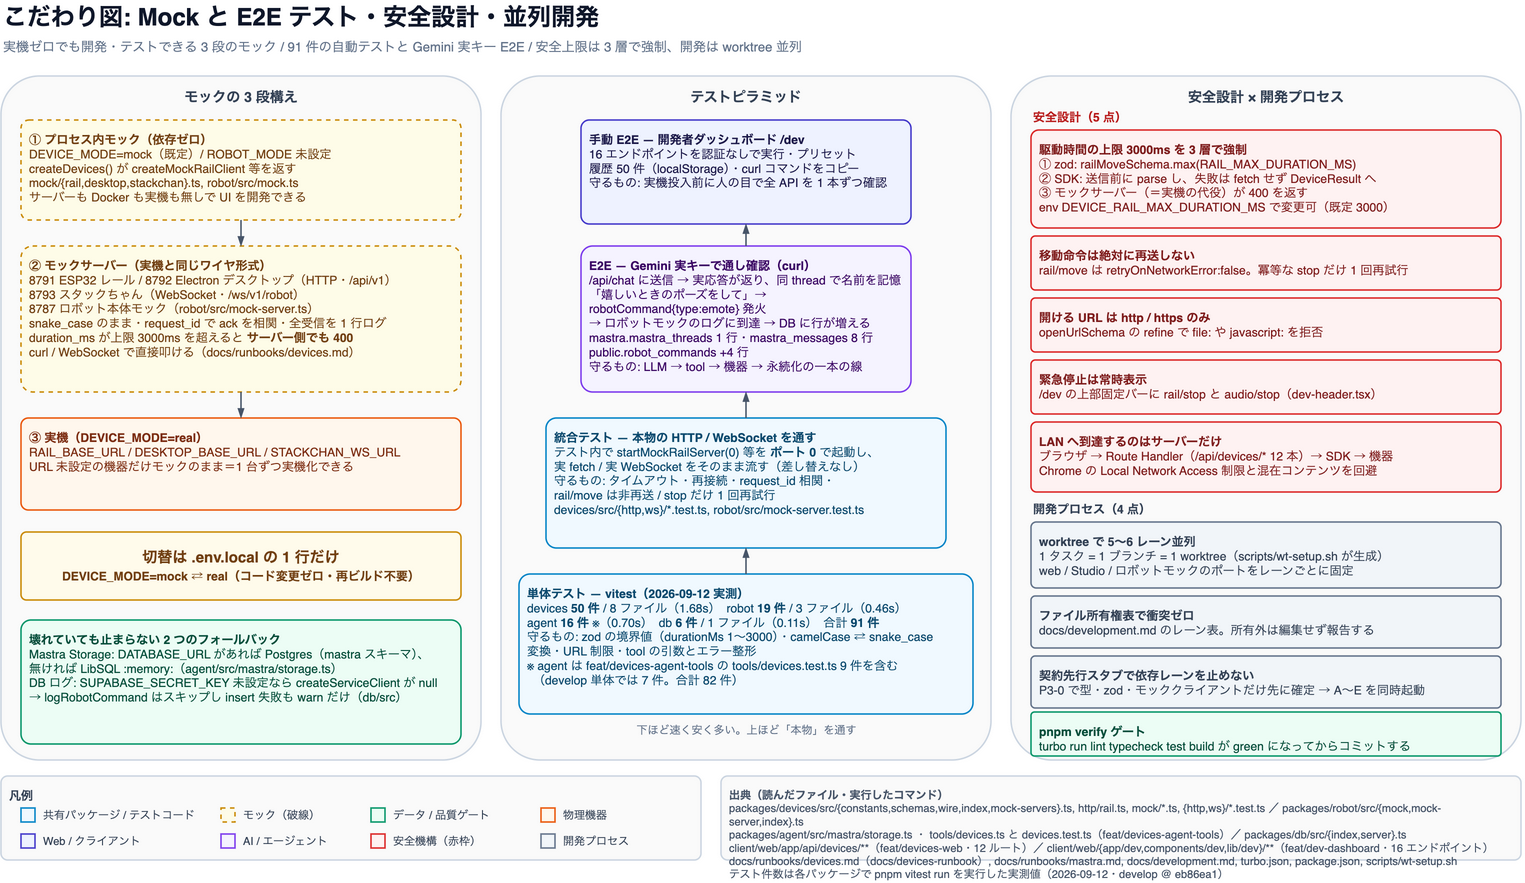
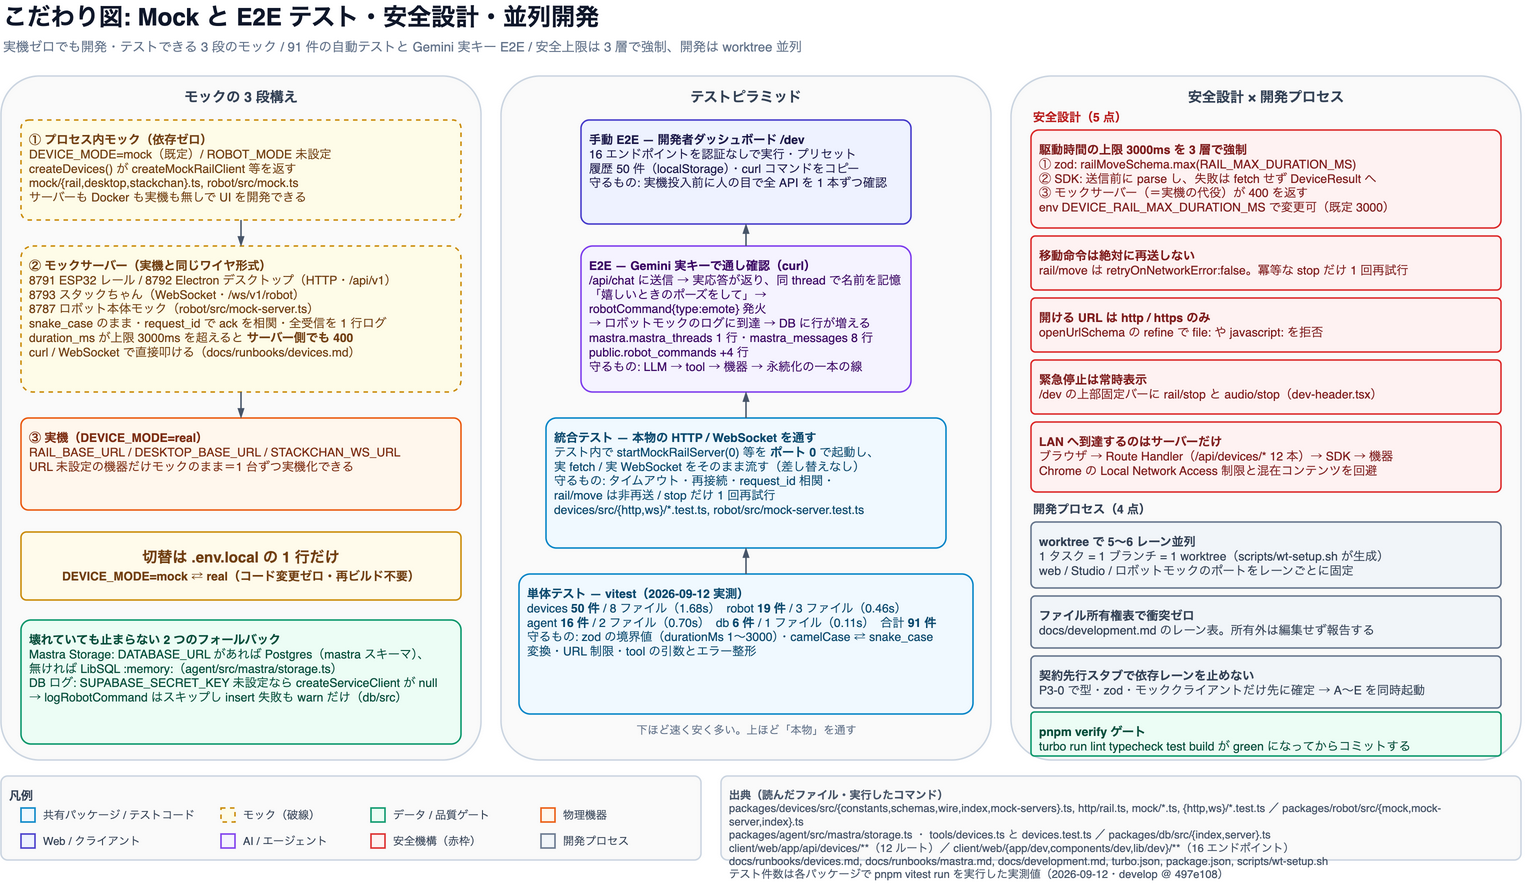
docs: 資料用ダイアグラム 6 点を統合し索引と表記を develop 現状に合わせる
- docs/diagram-{usecase,architecture,context,software,dependencies,quality} の 6 ブランチを統合（衝突なし）
- dependencies: web→devices / agent→devices の「(統合待ち)」ラベルと凡例の説明を削除（develop に統合済み）
- architecture / context / software / quality: 出典の feat/* ブランチ名を実ファイル参照に変更
- quality: agent のテスト件数から「develop 単体では 7 件」の但し書きを削除（合計 91 件が develop の実測）
- 出典の基準コミットを eb86ea1 → 497e108 に更新し、5 図の PNG を再出力
- docs/diagrams/README.md を新規追加（一覧・発表順・共通スタイルガイド・PNG 再出力手順・プレビュー）
- README.md のドキュメント表と docs/reports/env-setup.html の参照節に図 6 点を追加

Claude-Session: https://claude.ai/code/session_01DZksYTudxGHrLEE6ZMd4Vk

Changed region(s): [[0.5548, 0.9173, 0.9554, 1.0], [0.339, 0.7033, 0.6164, 0.795]]

diff --git a/docs/reports/env-setup.html b/docs/reports/env-setup.html
@@ -386,6 +386,13 @@ git push origin main                 # 項目 4 を済ませている場合</cod
 /Users/nano/workspace/contest/hackathon/ElectricSheep-100bus/docs/runbooks/robot.md
 /Users/nano/workspace/contest/hackathon/ElectricSheep-100bus/docs/reports/env-setup.html   ← 本レポート
 /Users/nano/workspace/contest/hackathon/ElectricSheep-100bus/.claude/skills/dev-runbook/SKILL.md
+/Users/nano/workspace/contest/hackathon/ElectricSheep-100bus/docs/diagrams/README.md              &larr; 資料用ダイアグラム 6 点の索引
+/Users/nano/workspace/contest/hackathon/ElectricSheep-100bus/docs/diagrams/usecase.drawio          ユースケース図
+/Users/nano/workspace/contest/hackathon/ElectricSheep-100bus/docs/diagrams/context.drawio          コンテキスト図
+/Users/nano/workspace/contest/hackathon/ElectricSheep-100bus/docs/diagrams/architecture.drawio     システムアーキテクチャ図
+/Users/nano/workspace/contest/hackathon/ElectricSheep-100bus/docs/diagrams/software.drawio         ソフトウェアアーキテクチャ図
+/Users/nano/workspace/contest/hackathon/ElectricSheep-100bus/docs/diagrams/dependencies.drawio     依存関係図
+/Users/nano/workspace/contest/hackathon/ElectricSheep-100bus/docs/diagrams/quality.drawio          こだわり図
 /Users/nano/workspace/contest/hackathon/ElectricSheep-100bus/client/web/.env.local          ← env の正本
 /Users/nano/workspace/contest/hackathon/ElectricSheep-100bus/client/web/.env.example</code></pre>
 

diff --git a/docs/diagrams/README.md b/docs/diagrams/README.md
@@ -1,0 +1,110 @@
+# 資料用ダイアグラム集
+
+ハッカソン発表スライド・README・レビュー説明に使う draw.io 図の置き場。各図は `.drawio`（編集用の正本）と `.png`（貼り付け用の書き出し）の 2 点セットで管理する。
+
+内容は **develop @ 497e108（2026-09-12 時点）** の実装を読んで作成した実測ベース。図に書いてある数値（テスト件数・エンドポイント数・ライブラリのバージョン）は推測ではなく実行結果・ファイルの実値。
+
+## 一覧
+
+| ファイル | 図の内容 | スライドでの使い方 |
+|---|---|---|
+| [`usecase.drawio`](usecase.drawio) / [`usecase.png`](usecase.png) | おばけロボットシステムのユースケース図。アクター（来場者・開発者・LLM）と、会話・動作・撮影・開発者ダッシュボードのユースケース | **冒頭の「何ができるか」**。デモの前に 1 枚出して、これから見せる体験の全体像を共有する |
+| [`context.drawio`](context.drawio) / [`context.png`](context.png) | コンテキスト図。Next.js を中心にした外部システム・物理機器との接続と、全 API エンドポイント・ワイヤ形式・未確定事項 | **「外と何をやり取りしているか」**。機器チーム・審査員への仕様説明、受領した要件定義との突き合わせに使う |
+| [`architecture.drawio`](architecture.drawio) / [`architecture.png`](architecture.png) | システムアーキテクチャ図（物理配置）。ブラウザ / Next.js サーバー / LAN 上の機器 / Supabase / Gemini がどのマシン・どのポートに居るか | **「どこで何が動くか」**。当日の会場ネットワーク構成の説明、トラブル時の切り分け図 |
+| [`software.drawio`](software.drawio) / [`software.png`](software.png) | ソフトウェアアーキテクチャ図。モノレポ 4 レイヤ（プレゼンテーション / アプリケーション / ドメイン / インフラ）と契約・レイヤ境界ルール | **「コードの設計」**。技術審査・コードレビューの導入。レイヤ境界（赤線）が設計の主張 |
+| [`dependencies.drawio`](dependencies.drawio) / [`dependencies.png`](dependencies.png) | 依存関係図。`@workspace/*` 間の依存 DAG と、レイヤ別の主要外部依存（実インストール版） | **「依存が循環していないこと」**。設計の健全性を 1 枚で示す。バージョン一覧は質疑の回答用 |
+| [`quality.drawio`](quality.drawio) / [`quality.png`](quality.png) | こだわり図。3 段のモック戦略・テストピラミッド（91 件）・安全設計 5 点・並列開発プロセス 4 点 | **締めの「こだわり」**。実機ゼロで開発を回した工夫と安全側の設計をアピールする |
+
+## 発表での推奨順
+
+1. **ユースケース**（`usecase.png`）— 誰が何をできるのか
+2. **コンテキスト**（`context.png`）— 外部システム・機器とのやり取り
+3. **システムアーキテクチャ**（`architecture.png`）— 物理配置・どこで動くか
+4. **ソフトウェアアーキテクチャ**（`software.png`）— コードのレイヤと契約
+5. **依存関係**（`dependencies.png`）— 依存 DAG と外部ライブラリ
+6. **こだわり**（`quality.png`）— モック・テスト・安全設計・並列開発
+
+「外側 → 内側 → 作り方」の順。1〜3 は非エンジニアにも通じる粒度、4〜6 は技術審査向け。時間が短いときは 1・3・6 の 3 枚で足りる。
+
+## 共通スタイルガイド
+
+新しい図を足すとき・既存の図を直すときはこの配色と線種に合わせる。
+
+### 配色（役割で決める。見た目で選ばない）
+
+| 色 | 役割 | 塗り / 枠 |
+|---|---|---|
+| 青 | Web / クライアント（Next.js・ブラウザ・`/dev`） | `#EEF2FF` / `#4338CA` |
+| 紫 | AI / エージェント（Mastra・tool・Gemini 呼び出し） | `#F5F3FF` / `#7C3AED` |
+| 水色 | 共有パッケージ / 検証（`@workspace/*`・zod） | `#F0F9FF` / `#0284C7` |
+| 緑 | データ（Supabase / Postgres）・品質ゲート | `#ECFDF5` / `#059669` |
+| オレンジ | 物理機器・機器との通信（ESP32・スタックちゃん・Electron） | `#FFF7ED` / `#EA580C` |
+| 黄 | モック / 分岐（`DEVICE_MODE` の切替など） | `#FEFCE8` / `#CA8A04` |
+| 赤 | 安全機構・レイヤ境界・未確定事項（注意して読む場所） | `#FEF2F2` / `#DC2626` |
+| グレー | ツール / devDependency / 出典・凡例 | `#FAFAFA`・`#F1F5F9` / `#CBD5E1`・`#64748B` |
+
+矢印の線色は既定で `#475569`（スレート）。色は**役割で決める**。見た目の好みで選ばず、上の表に無い役割が出たら表ごと更新する。
+
+### 線種
+
+- **実線の矢印** — 同期的な呼び出し・HTTP・`dependencies`（`workspace:*`）
+- **破線の矢印** — WebSocket / ストリーム（SSE・音声チャンク）
+- **薄い破線の矢印** — `devDependencies`（共有の eslint / tsconfig）
+- **破線の枠** — モック・テストコード・ツール（実機や本番の実体ではないもの）
+- **白抜きの矢頭** — 永続化（DB への書き込み）
+- 矢印の向きは**要求の向き**。双方向のやり取りは 1 本にせず 2 本で書く
+
+### 共通の約束
+
+- フォントは Helvetica、本文 11px / 見出し 13px。角丸は `rounded=1`
+- 各図の右下に**出典ボックス**（読んだファイル・実行したコマンド・基準コミット）を必ず置く。数値を書いたらその出所も書く
+- 左下に**凡例**を置く。色と線種の意味を毎回書く（単体で配れるようにする）
+
+## 編集手順
+
+1. draw.io デスクトップアプリで `.drawio` を開く（`open -a draw.io docs/diagrams/<name>.drawio`）
+2. 編集して保存する。XML が壊れていないかは `xmllint --noout docs/diagrams/<name>.drawio` で確認
+3. PNG を書き出す（リポジトリルートで実行）:
+
+```bash
+/Applications/draw.io.app/Contents/MacOS/draw.io -x -f png -o docs/diagrams/<name>.png docs/diagrams/<name>.drawio
+```
+
+`architecture` だけは細かい文字が多いため 2 倍解像度で書き出す:
+
+```bash
+/Applications/draw.io.app/Contents/MacOS/draw.io -x -f png -s 2 -o docs/diagrams/architecture.png docs/diagrams/architecture.drawio
+```
+
+4. `.drawio` と `.png` を**必ずセットでコミット**する（PNG だけ古い状態にしない）
+
+### 実装を変えたら図も直す
+
+図は実装のスナップショットなので、次を変えたら該当図を更新して PNG を出し直す。
+
+- API エンドポイントの追加・削除 → `context` / `software`
+- パッケージ追加・`workspace:*` 依存の変更 → `dependencies` / `software`
+- ポート・env・機器の追加 → `architecture` / `context`
+- テストの増減・安全上限の変更 → `quality`
+
+出典ボックスの「基準: develop = <sha>」も同時に更新する。
+
+## プレビュー
+
+### ユースケース図
+![ユースケース図](usecase.png)
+
+### コンテキスト図
+![コンテキスト図](context.png)
+
+### システムアーキテクチャ図
+![システムアーキテクチャ図](architecture.png)
+
+### ソフトウェアアーキテクチャ図
+![ソフトウェアアーキテクチャ図](software.png)
+
+### 依存関係図
+![依存関係図](dependencies.png)
+
+### こだわり図
+![こだわり図](quality.png)

diff --git a/README.md b/README.md
@@ -182,5 +182,6 @@ GHOST_MODEL=google/gemini-3.1-pro-preview  # 品質重視（遅い・高い）
 | [`docs/runbooks/devices.md`](docs/runbooks/devices.md) | 機器 API（ESP32 レール / スタックちゃん / Electron）の env・モック起動・curl 例・安全要件 |
 | [`docs/runbooks/dev-dashboard.md`](docs/runbooks/dev-dashboard.md) | 開発者ダッシュボード [`/dev`](http://localhost:3000/dev) の使い方・エンドポイント追加手順 |
 | [`docs/specs/robot-api-requirements.md`](docs/specs/robot-api-requirements.md) | 受領した機器 API 要件定義（仕様の正本） |
+| [`docs/diagrams/README.md`](docs/diagrams/README.md) | 資料用ダイアグラム 6 点（ユースケース / コンテキスト / システム・ソフトウェアアーキテクチャ / 依存 / こだわり）と共通スタイルガイド・PNG 再出力手順 |
 | [`client/desktop/README.md`](client/desktop/README.md) | 将来の Tauri v2 方針 |
 | [`.claude/skills/dev-runbook/SKILL.md`](.claude/skills/dev-runbook/SKILL.md) | エージェント向けの開発手順まとめ |
